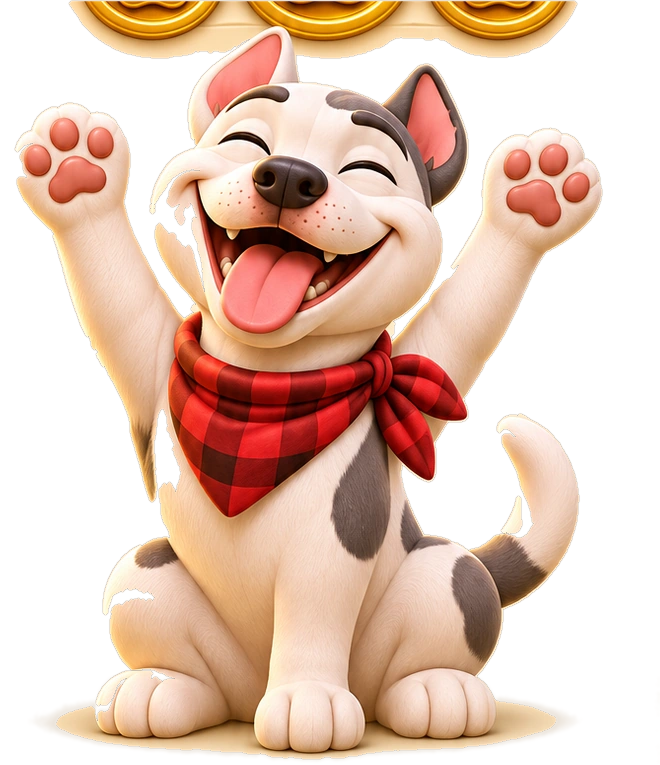
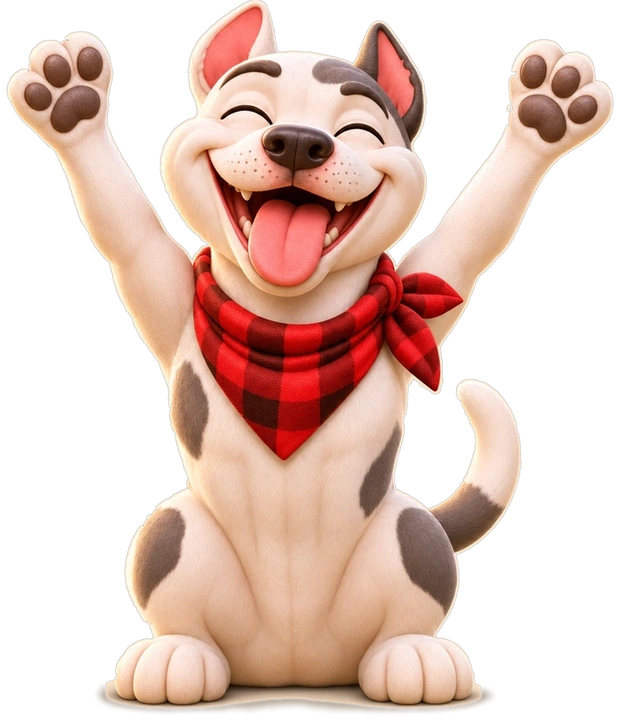
Gold pop-ups: center (class clash with old .card style), swap win Rambo to clean two-arm version
Claude-Session: https://claude.ai/code/session_01HqXo8oXM9XTGkWGnUkjv9K

diff --git a/pop_gold.js b/pop_gold.js
@@ -5,14 +5,14 @@ const P='bovo11/pop/',IW=852,IH=1846;
 const css=document.createElement('style');css.textContent=`
 #gp{position:fixed;inset:0;z-index:200;background:rgba(2,22,24,0);pointer-events:none;transition:background .3s}
 #gp.on{background:rgba(2,22,24,.72);pointer-events:auto}
-#gp .stg{position:absolute;left:50%;top:50%;transform:translate(-50%,-50%)}
-#gp .card{position:absolute;inset:0;transform-origin:50% 55%}
-#gp .L{position:absolute;display:block;pointer-events:none;-webkit-user-drag:none;user-select:none}
-#gp .tx{position:absolute;display:flex;align-items:center;justify-content:center;font-family:BoboNunito,'Nunito',system-ui;font-weight:900;white-space:nowrap;pointer-events:none;line-height:1}
-#gp .tx.cr{color:#fdf1d6;text-shadow:0 .06em 0 rgba(0,40,42,.55)}
-#gp .tx.dk{color:#0d4a4b}
-#gp .hb{position:absolute;cursor:pointer;-webkit-tap-highlight-color:transparent}
-#gp .press{transition:transform .08s}
+#gp .gpstg{position:absolute;left:50%;top:50%;transform:translate(-50%,-50%)}
+#gp .gpcard{position:absolute;inset:0;transform-origin:50% 55%}
+#gp .gpL{position:absolute;display:block;pointer-events:none;-webkit-user-drag:none;user-select:none}
+#gp .gptx{position:absolute;display:flex;align-items:center;justify-content:center;font-family:BoboNunito,'Nunito',system-ui;font-weight:900;white-space:nowrap;pointer-events:none;line-height:1}
+#gp .gptx.cr{color:#fdf1d6;text-shadow:0 .06em 0 rgba(0,40,42,.55)}
+#gp .gptx.dk{color:#0d4a4b}
+#gp .gphb{position:absolute;cursor:pointer;-webkit-tap-highlight-color:transparent}
+#gp .gppress{transition:transform .08s}
 #gp canvas{position:absolute;inset:0;width:100%;height:100%;pointer-events:none}
 @keyframes gpIn{0%{transform:scale(.35) translateY(30%);opacity:0}55%{transform:scale(1.06) translateY(-1%);opacity:1}75%{transform:scale(.97)}100%{transform:none}}
 @keyframes gpOut{to{transform:scale(.85) translateY(6%);opacity:0}}
@@ -27,29 +27,29 @@ const css=document.createElement('style');css.textContent=`
 @keyframes gpShake{0%,100%{transform:none}20%{transform:translate(-1.2%,.8%)}40%{transform:translate(1.1%,-.6%)}60%{transform:translate(-.7%,.4%)}80%{transform:translate(.4%,-.2%)}}
 @keyframes gpSpin{to{transform:rotate(360deg)}}
 @keyframes gpBump{40%{transform:scale(1.22)}100%{transform:none}}
-#gp .rays{position:absolute;border-radius:50%;opacity:0;transition:opacity .6s;
+#gp .gprays{position:absolute;border-radius:50%;opacity:0;transition:opacity .6s;
  background:repeating-conic-gradient(rgba(255,214,90,.55) 0 9deg,rgba(255,240,180,0) 9deg 22.5deg);
  -webkit-mask-image:radial-gradient(circle,#000 18%,rgba(0,0,0,.6) 40%,transparent 68%);mask-image:radial-gradient(circle,#000 18%,rgba(0,0,0,.6) 40%,transparent 68%);animation:gpSpin 14s linear infinite}
-#gp .glow{position:absolute;border-radius:50%;background:radial-gradient(circle,rgba(255,250,225,.95),rgba(255,232,160,.5) 35%,rgba(255,232,160,0) 70%);opacity:0;transition:opacity .6s}`;
+#gp .gpglow{position:absolute;border-radius:50%;background:radial-gradient(circle,rgba(255,250,225,.95),rgba(255,232,160,.5) 35%,rgba(255,232,160,0) 70%);opacity:0;transition:opacity .6s}`;
 document.head.appendChild(css);
 const gp=document.createElement('div');gp.id='gp';document.body.appendChild(gp);
 let stg,card,fx,U=1,parts=[],timers=[],raf=0;
 const pct=(v,b)=>v/b*100+'%';
 function fit(){if(!stg)return;let h=innerHeight*.97,w=h*IW/IH;if(w>innerWidth*.99){w=innerWidth*.99;h=w*IH/IW}
- stg.style.width=w+'px';stg.style.height=h+'px';U=w/IW;stg.querySelectorAll('.tx').forEach(e=>e.style.fontSize=(+e.dataset.fs*U)+'px');
+ stg.style.width=w+'px';stg.style.height=h+'px';U=w/IW;stg.querySelectorAll('.gptx').forEach(e=>e.style.fontSize=(+e.dataset.fs*U)+'px');
  if(fx){fx.width=Math.round(w*Math.min(2,devicePixelRatio||1));fx.height=Math.round(h*Math.min(2,devicePixelRatio||1))}}
 addEventListener('resize',fit);
 const at=(e,[x,y,w,h])=>{e.style.left=pct(x,IW);e.style.top=pct(y,IH);e.style.width=pct(w,IW);e.style.height=pct(h,IH);return e};
-function img(src,box,parent=card){const i=new Image();i.className='L';i.src=P+src+'?v=1';at(i,box);parent.appendChild(i);return i}
-function tx(t,box,fs,cls='dk',parent=card){const d=document.createElement('div');d.className='tx '+cls;d.textContent=t;d.dataset.fs=fs;at(d,box);d.style.fontSize=fs*U+'px';parent.appendChild(d);return d}
-function hit(box,fn,pressEl){const d=document.createElement('div');d.className='hb';at(d,box);card.appendChild(d);
+function img(src,box,parent=card){const i=new Image();i.className='gpL';i.src=P+src+'?v=2';at(i,box);parent.appendChild(i);return i}
+function tx(t,box,fs,cls='dk',parent=card){const d=document.createElement('div');d.className='gptx '+cls;d.textContent=t;d.dataset.fs=fs;at(d,box);d.style.fontSize=fs*U+'px';parent.appendChild(d);return d}
+function hit(box,fn,pressEl){const d=document.createElement('div');d.className='gphb';at(d,box);card.appendChild(d);
  const dn=()=>{if(pressEl)pressEl.style.transform='scale(.95)'},up=()=>{if(pressEl)pressEl.style.transform=''};
  d.addEventListener('pointerdown',dn);['pointerup','pointerleave','pointercancel'].forEach(e=>d.addEventListener(e,up));
  d.onclick=()=>{snd('tap');fn()};return d}
 function snd(n){try{window.BA&&BA.play&&BA.play(n,{gap:60})}catch(e){}}
 const later=(ms,fn)=>timers.push(setTimeout(fn,ms));
-function open(base){close(true);gp.innerHTML='';stg=document.createElement('div');stg.className='stg';gp.appendChild(stg);
- card=document.createElement('div');card.className='card';stg.appendChild(card);
+function open(base){close(true);gp.innerHTML='';stg=document.createElement('div');stg.className='gpstg';gp.appendChild(stg);
+ card=document.createElement('div');card.className='gpcard';stg.appendChild(card);
  fx=document.createElement('canvas');stg.appendChild(fx);fit();img(base,[0,0,IW,IH]);
  card.style.animation='gpIn .55s cubic-bezier(.25,.9,.35,1) both';gp.classList.add('on');parts=[];startFx();snd('popper')}
 function close(now){timers.forEach(clearTimeout);timers=[];cancelAnimationFrame(raf);
@@ -69,18 +69,18 @@ function confetti(x,y,n,spd=900,up=500){for(let i=0;i<n;i++){const a=Math.random
 function sparkle(x,y,n,r=90){for(let i=0;i<n;i++){const a=Math.random()*Math.PI*2,v=r*(1+Math.random()*2.5);parts.push({k:'s',x,y,vx:Math.cos(a)*v,vy:Math.sin(a)*v,g:0,rot:0,vr:0,sz:10+Math.random()*16,col:i%3?'#fff6c8':'#ffd84a',life:1,dur:.5+Math.random()*.5})}}
 function goalsRow(goals,[x0,y0,x1,y1],isz,fs){const n=goals.length,sw=(x1-x0)/n;
  goals.forEach((go,i)=>{const sx=x0+sw*i,cy=(y0+y1)/2,num=String(go.left??go.n);const tw=fs*.62*num.length,gap=fs*.18,tot=isz+gap+tw,ix=sx+(sw-tot)/2;
-  const im=new Image();im.className='L';im.src=window.goalImg?('a/'+goalImg(go)+'.webp'):'';at(im,[ix,cy-isz/2,isz,isz]);im.style.objectFit='contain';card.appendChild(im);
+  const im=new Image();im.className='gpL';im.src=window.goalImg?('a/'+goalImg(go)+'.webp'):'';at(im,[ix,cy-isz/2,isz,isz]);im.style.objectFit='contain';card.appendChild(im);
   tx(num,[ix+isz+gap-fs*.1,cy-fs*.6,tw+fs*.2,fs*1.2],fs,'dk')})}
 // ---------- READY ----------
 window.showIntro=function(){open('r_base.webp');
  tx('Level '+(S.li+1),[190,615,470,95],72,'cr');
  const n=S.goals.length;goalsRow(S.goals.map(x=>({...x,left:x.n})),[125,858,730,1005],n>2?110:132,n>2?72:86);
  tx(String(S.moves),[230,1098,380,140],S.moves>99?118:140,'cr');
- const pl=document.createElement('div');pl.className='L';at(pl,[118,1342,616,206]);card.appendChild(pl);
+ const pl=document.createElement('div');pl.className='gpL';at(pl,[118,1342,616,206]);card.appendChild(pl);
  const go=()=>{close();window.say&&say('You got this!');window.hintArm&&hintArm()};
  hit([118,1342,616,206],go);hit([0,0,IW,560],()=>{});
  // play button breathes once the card lands
- later(600,()=>{const b=document.createElement('div');b.className='L';at(b,[118,1342,616,206]);b.style.borderRadius='999px';b.style.animation='gpPulse 1.6s ease-in-out infinite';b.style.mixBlendMode='screen';b.style.background='radial-gradient(ellipse at 50% 50%,rgba(170,255,120,.18),rgba(170,255,120,0) 70%)';card.appendChild(b)});
+ later(600,()=>{const b=document.createElement('div');b.className='gpL';at(b,[118,1342,616,206]);b.style.borderRadius='999px';b.style.animation='gpPulse 1.6s ease-in-out infinite';b.style.mixBlendMode='screen';b.style.background='radial-gradient(ellipse at 50% 50%,rgba(170,255,120,.18),rgba(170,255,120,0) 70%)';card.appendChild(b)});
  later(150,()=>sparkle(425,330,10,70))};
 // ---------- PAUSED ----------
 let TOG=null;fetch(P+'p_tog.json').then(r=>r.json()).then(j=>TOG=j);
@@ -96,13 +96,13 @@ window.g2pause=function(){if(typeof S==='undefined'||!S||S.over)return;if(!TOG)r
 window.lose=function(){S.over=true;window.fx&&window.fx('lose');open('o_base.webp');
  const left=S.goals.filter(x=>x.left>0);goalsRow(left,[110,895,742,1072],left.length>2?118:150,left.length>2?78:96);
  hit([72,1150,708,232],()=>{close();moreMoves()});hit([150,1485,550,148],()=>{close(true);BA.nav('map.html')});
- later(500,()=>{const r=document.createElement('div');r.className='L';at(r,[72,1150,708,232]);r.style.borderRadius='999px';r.style.animation='gpPulse 1.4s ease-in-out infinite';card.appendChild(r)})};
+ later(500,()=>{const r=document.createElement('div');r.className='gpL';at(r,[72,1150,708,232]);r.style.borderRadius='999px';r.style.animation='gpPulse 1.4s ease-in-out infinite';card.appendChild(r)})};
 // ---------- GOOD BOY! ----------
-let LY=null;fetch(P+'w_layers.json').then(r=>r.json()).then(j=>LY=j);
+let LY=null;fetch(P+'w_layers.json?v=2').then(r=>r.json()).then(j=>LY=j);
 window.g2results=function(stars,bones){if(!LY)return setTimeout(()=>g2results(stars,bones),100);open('w_base.webp');
  const L=(k,src)=>{const e=img(src,LY[k]);e.style.opacity=0;return e};
- const glow=document.createElement('div');glow.className='glow';at(glow,[136,380,580,580]);card.appendChild(glow);
- const rays=document.createElement('div');rays.className='rays';at(rays,[46,250,760,760]);card.appendChild(rays);
+ const glow=document.createElement('div');glow.className='gpglow';at(glow,[136,380,580,580]);card.appendChild(glow);
+ const rays=document.createElement('div');rays.className='gprays';at(rays,[46,250,760,760]);card.appendChild(rays);
  const ram=L('rambo','w_rambo.webp');ram.style.transformOrigin='50% 100%';
  const ttl=L('title','w_title.webp');const paws=[0,1,2].map(i=>L('paw'+i,'w_paw'+i+'.webp'));
  const lv=tx('Level '+(S.li+1)+' Complete!',[90,1146,672,80],62,'dk');lv.style.opacity=0;
@@ -131,7 +131,7 @@ window.g2results=function(stars,bones){if(!LY)return setTimeout(()=>g2results(st
  later(3050,()=>{cont.style.opacity=1;cont.style.animation='gpPop .45s cubic-bezier(.3,1.5,.5,1) both';later(450,()=>{cont.style.animation='gpPulse 1.6s ease-in-out infinite'})});
  seq(rep,'gpPop .4s cubic-bezier(.3,1.5,.5,1) both',3250);later(3300,finish);
  // tap the card early to skip ahead
- const skip=document.createElement('div');skip.className='hb';at(skip,[0,0,IW,1400]);card.appendChild(skip);
+ const skip=document.createElement('div');skip.className='gphb';at(skip,[0,0,IW,1400]);card.appendChild(skip);
  skip.onclick=()=>{if(ready)return;timers.forEach(clearTimeout);timers=[];[ttl,lv,bn,cont,rep,ram].forEach(e=>{e.style.opacity=1;e.style.animation='none'});
   paws.forEach((p,i)=>{p.style.opacity=i<stars?1:0;p.style.animation='none'});glow.style.opacity=1;rays.style.opacity=.9;bn.textContent='+'+bones+' Bones';
   ram.style.animation='gpWiggle 1.3s ease-in-out infinite';cont.style.animation='gpPulse 1.6s ease-in-out infinite';ready=true}};

diff --git a/game_new.html b/game_new.html
@@ -711,7 +711,7 @@ $('pz').onclick=()=>{if(!S)return;showOv(`<img class="ttl2" src="a/L_t_paused.we
 window.T={get S(){return S},findMove,localMatch,trySwap,startLevel,LEVELS,setFast:v=>FAST=v,tapCell};
 document.body.dataset.bt=Q.get('bt')||'cream70';document.getElementById('topw').style.transform=`translate(10px,${Q.get('hu')??14}px) scale(.9)`;if(Q.get('dof'))document.body.dataset.dof=Q.get('dof');if(Q.get('calm'))document.body.dataset.calm=Q.get('calm');document.body.dataset.hud=Q.get('hud')||'smoke';
 addEventListener("load",()=>startLevel(Math.max(0,(+Q.get("lv")||1)-1)));
-</script><script src="game_fx.js?v=23"></script><script src="rambo_live.js?v=23"></script><script src="game2_new.js?v=7"></script><script src="pop_gold.js?v=2"></script><script>
+</script><script src="game_fx.js?v=23"></script><script src="rambo_live.js?v=23"></script><script src="game2_new.js?v=7"></script><script src="pop_gold.js?v=3"></script><script>
 // NEW-LOOK PREVIEW: board sits on the map scene for this level; map/home buttons go to the new pages
 try{sessionStorage.setItem('gbb_map','bovo10/index.html')}catch(e){}
 setTimeout(()=>{if(window.BA&&BA.nav){const n=BA.nav;BA.nav=u=>n(/^(index\.html|home)/.test(u)?'bovo11/index.html':u)}},0);
